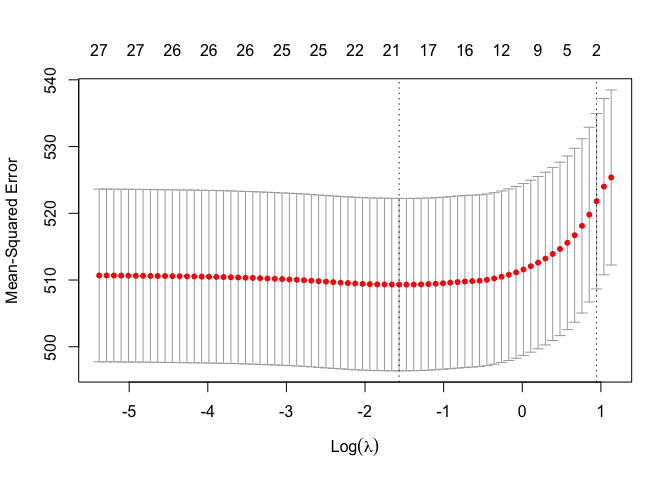
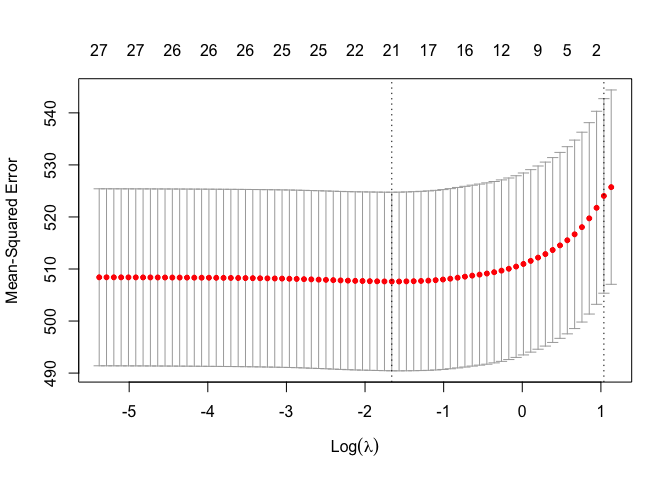
change in correlation plot

diff --git a/Data-Exploration.md b/Data-Exploration.md
@@ -163,7 +163,7 @@ bc_data =
 ``` r
 # Pairwise interaction and Correlation plot
 bc_data |> 
-  select(-status) |> 
+  select(-status, -survival_months) |> 
   pairs()
 ```
 
@@ -172,7 +172,7 @@ bc_data |>
 ``` r
 cor_matrix <- 
   bc_data |> 
-  select(-status) |> 
+  select(-status, -survival_months) |> 
   mutate(across(where(is.factor), as.numeric)) |> 
   cor()
 
@@ -194,7 +194,6 @@ print(cor_matrix, digits = 3)
     ## progesterone_status    -0.02127  0.01858       -0.01349 -0.05763 -0.09372
     ## regional_node_examined -0.03335  0.00997       -0.00429  0.11410  0.32828
     ## regional_node_positive  0.01259 -0.00769        0.00585  0.24307  0.83807
-    ## survival_months        -0.00939  0.05509       -0.02559 -0.08572 -0.13958
     ##                        x6th_stage differentiate   grade  a_stage tumor_size
     ## age                      -0.01874       0.01570 -0.0993  0.02086   -0.07721
     ## race                     -0.00621      -0.00315 -0.0453  0.00710    0.00463
@@ -210,7 +209,6 @@ print(cor_matrix, digits = 3)
     ## progesterone_status      -0.10125       0.00896 -0.1799  0.02653   -0.06988
     ## regional_node_examined    0.31722      -0.05725  0.0844 -0.06901    0.10435
     ## regional_node_positive    0.77396      -0.02834  0.1353 -0.23285    0.24232
-    ## survival_months          -0.14484      -0.00450 -0.0677  0.07011   -0.08690
     ##                        estrogen_status progesterone_status
     ## age                             0.0598            -0.02127
     ## race                            0.0203             0.01858
@@ -226,7 +224,6 @@ print(cor_matrix, digits = 3)
     ## progesterone_status             0.5133             1.00000
     ## regional_node_examined         -0.0448            -0.01805
     ## regional_node_positive         -0.0860            -0.07807
-    ## survival_months                 0.1285             0.09602
     ##                        regional_node_examined regional_node_positive
     ## age                                  -0.03335                0.01259
     ## race                                  0.00997               -0.00769
@@ -242,23 +239,6 @@ print(cor_matrix, digits = 3)
     ## progesterone_status                  -0.01805               -0.07807
     ## regional_node_examined                1.00000                0.41158
     ## regional_node_positive                0.41158                1.00000
-    ## survival_months                      -0.02205               -0.13521
-    ##                        survival_months
-    ## age                           -0.00939
-    ## race                           0.05509
-    ## marital_status                -0.02559
-    ## t_stage                       -0.08572
-    ## n_stage                       -0.13958
-    ## x6th_stage                    -0.14484
-    ## differentiate                 -0.00450
-    ## grade                         -0.06767
-    ## a_stage                        0.07011
-    ## tumor_size                    -0.08690
-    ## estrogen_status                0.12847
-    ## progesterone_status            0.09602
-    ## regional_node_examined        -0.02205
-    ## regional_node_positive        -0.13521
-    ## survival_months                1.00000
 
 ``` r
 corrplot(cor_matrix, type = "upper", diag = FALSE, tl.cex = 0.5, tl.srt = 45)
@@ -652,45 +632,45 @@ coef(best_model)
 
     ## 39 x 1 sparse Matrix of class "dgCMatrix"
     ##                                   s0
-    ## (Intercept)             7.368113e+01
-    ## age                    -2.142717e-02
-    ## race1                  -3.085770e+00
+    ## (Intercept)             7.389688e+01
+    ## age                    -2.336744e-02
+    ## race1                  -3.135409e+00
     ## race2                   .           
-    ## race3                   1.222946e+00
+    ## race3                   1.283391e+00
     ## marital_status1         .           
-    ## marital_status2         6.117102e-01
-    ## marital_status3        -4.703561e+00
+    ## marital_status2         6.230925e-01
+    ## marital_status3        -4.849360e+00
     ## marital_status4         .           
-    ## marital_status5        -1.855357e-01
-    ## t_stage1                8.652487e-01
-    ## t_stage2               -3.573375e-01
+    ## marital_status5        -2.380726e-01
+    ## t_stage1                7.665824e-01
+    ## t_stage2               -4.628485e-01
     ## t_stage3                .           
     ## t_stage4                .           
-    ## n_stage1                1.276682e+00
+    ## n_stage1                1.286869e+00
     ## n_stage2                .           
-    ## n_stage3               -2.376975e+00
+    ## n_stage3               -2.376220e+00
     ## x6th_stage1             .           
     ## x6th_stage2             .           
     ## x6th_stage3             .           
     ## x6th_stage4             .           
-    ## x6th_stage5            -6.709162e-14
+    ## x6th_stage5            -6.647384e-14
     ## differentiate1          .           
-    ## differentiate2         -6.810615e-01
-    ## differentiate3         -3.144449e-01
+    ## differentiate2         -7.099347e-01
+    ## differentiate3         -5.741060e-01
     ## differentiate4          .           
     ## grade1                  .           
     ## grade2                  .           
-    ## grade3                 -4.181048e-06
-    ## grade4                 -1.159836e-06
-    ## a_stage1               -3.122687e+00
+    ## grade3                 -4.500262e-06
+    ## grade4                 -1.248387e-06
+    ## a_stage1               -3.230680e+00
     ## a_stage2                .           
-    ## tumor_size             -3.158191e-02
-    ## estrogen_status0       -8.168624e+00
+    ## tumor_size             -3.350628e-02
+    ## estrogen_status0       -8.204483e+00
     ## estrogen_status1        .           
-    ## progesterone_status0   -1.399913e+00
+    ## progesterone_status0   -1.418250e+00
     ## progesterone_status1    .           
-    ## regional_node_examined  6.624374e-02
-    ## regional_node_positive -2.770604e-01
+    ## regional_node_examined  6.992062e-02
+    ## regional_node_positive -2.801364e-01
 
 ``` r
 coef(fit_LASSO)
@@ -698,7 +678,7 @@ coef(fit_LASSO)
 
     ## 39 x 1 sparse Matrix of class "dgCMatrix"
     ##                                 s1
-    ## (Intercept)            71.79117955
+    ## (Intercept)            71.54135781
     ## age                     .         
     ## race1                   .         
     ## race2                   .         
@@ -731,12 +711,12 @@ coef(fit_LASSO)
     ## a_stage1                .         
     ## a_stage2                .         
     ## tumor_size              .         
-    ## estrogen_status0       -1.31625854
+    ## estrogen_status0       -0.39144718
     ## estrogen_status1        .         
     ## progesterone_status0    .         
     ## progesterone_status1    .         
     ## regional_node_examined  .         
-    ## regional_node_positive -0.09745595
+    ## regional_node_positive -0.05224268
 
 ``` r
 fit_LASSO_logit = cv.glmnet(mat, bc_data$status,family="binomial")
